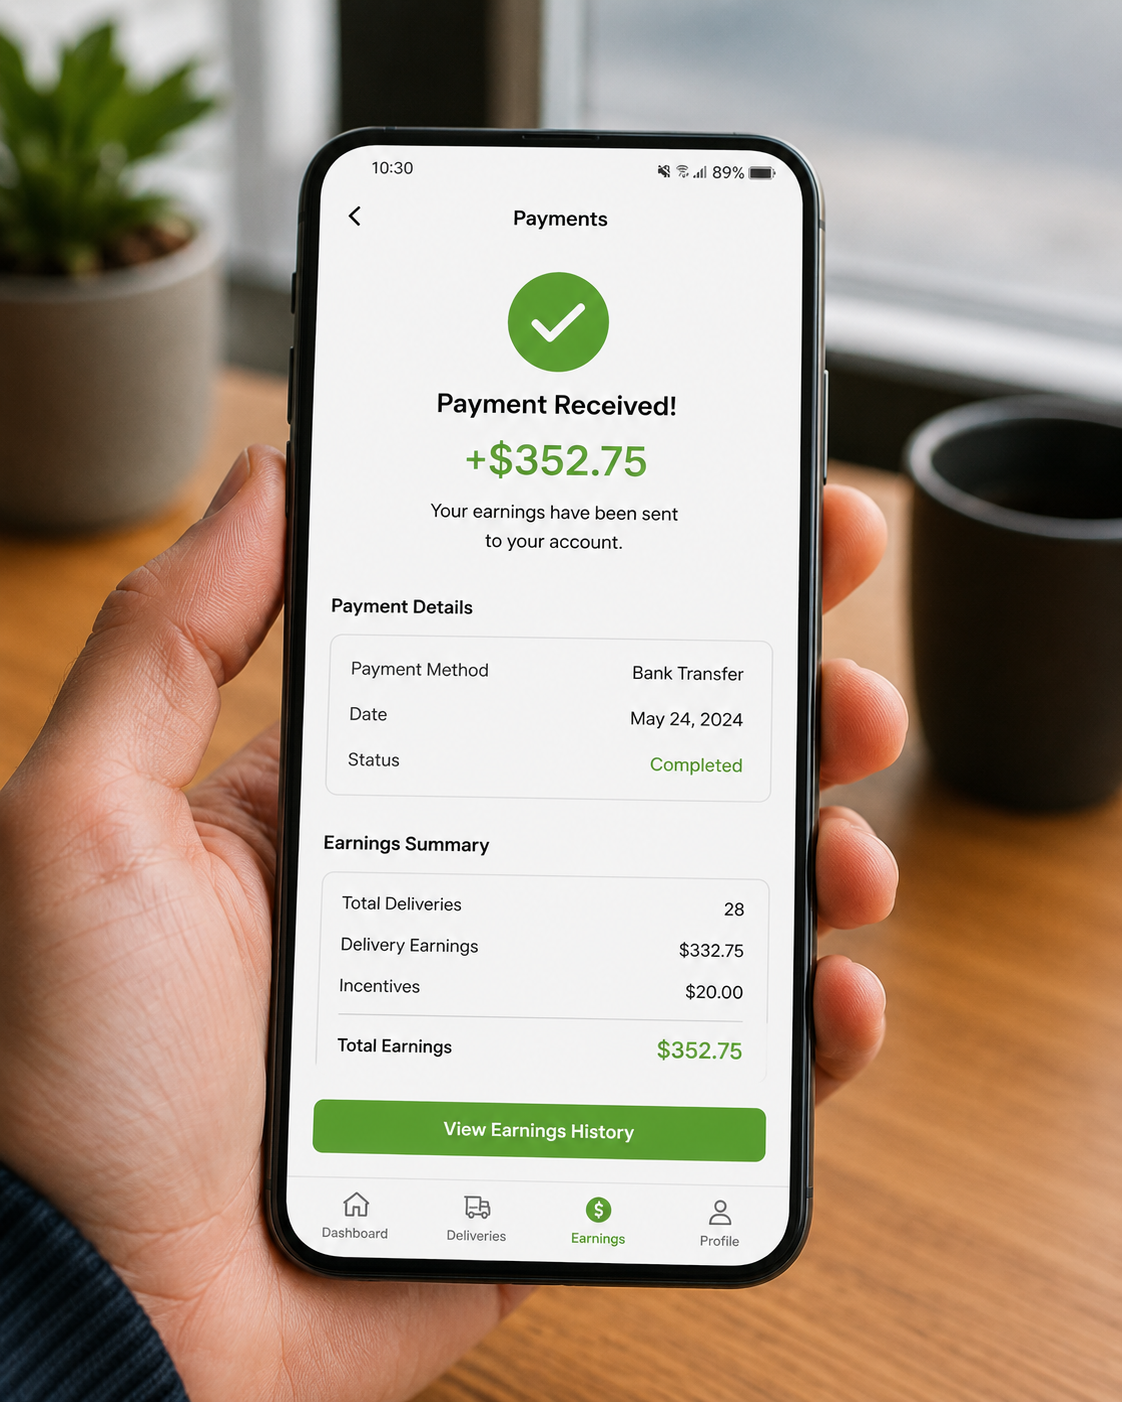
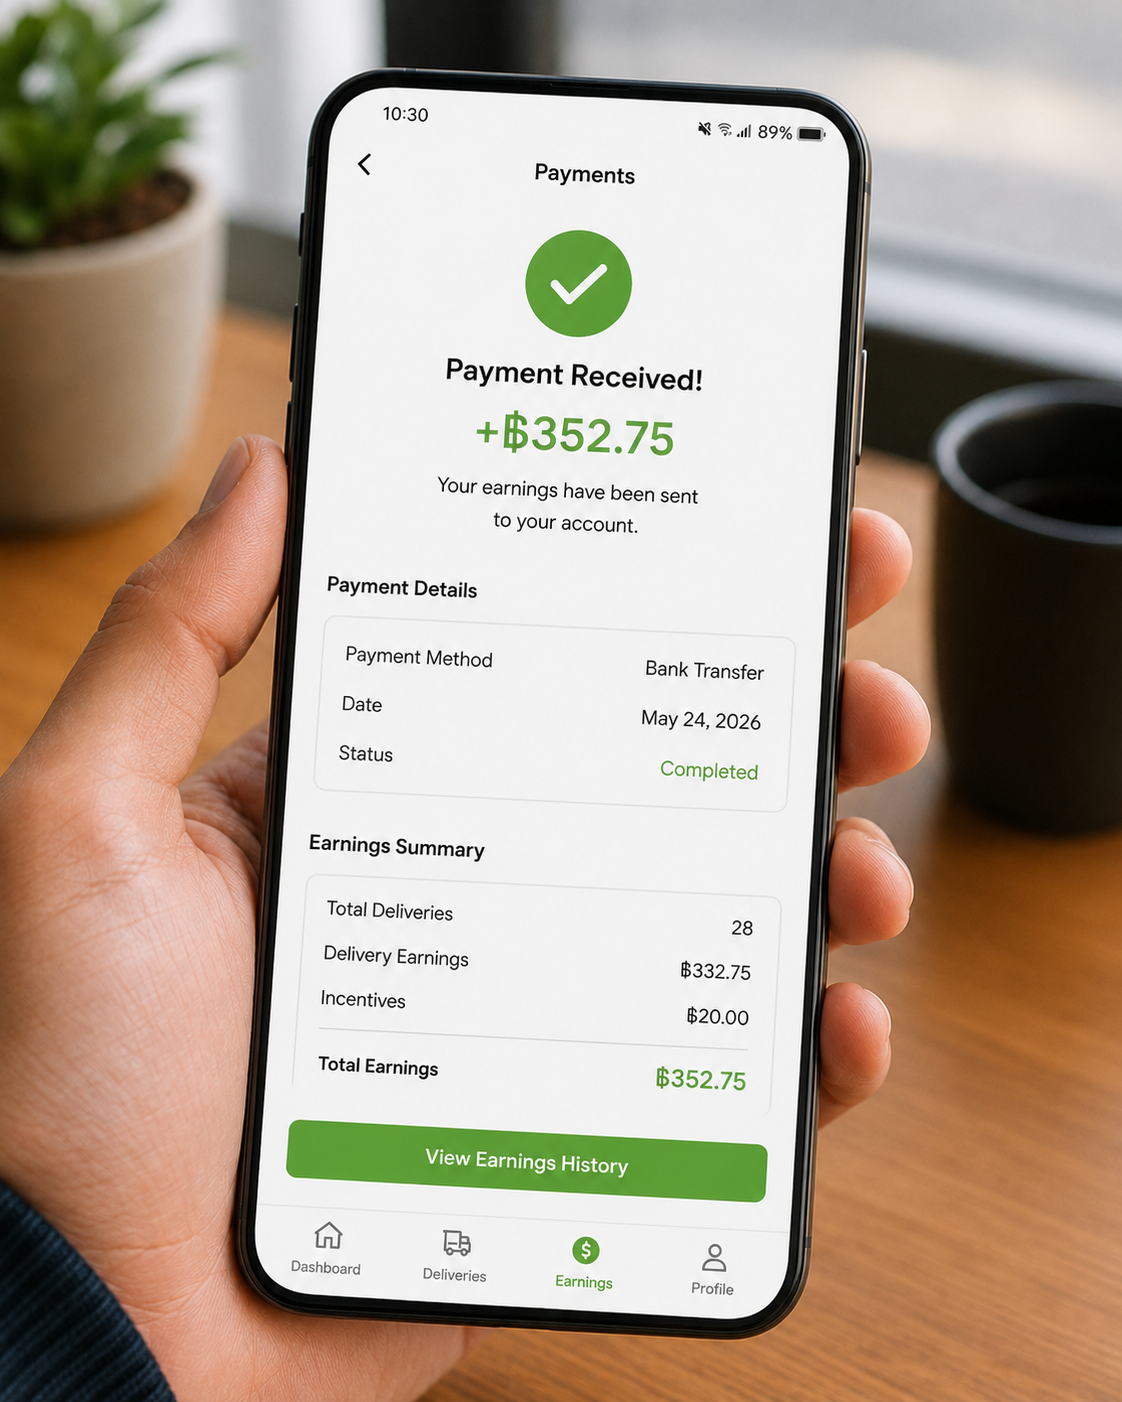
Update driver payout card image

diff --git a/design.md b/design.md
@@ -646,6 +646,11 @@
 - The FoodOnline Driver Program image panel now uses the supplied branded van image instead of the missing placeholder route image.
 - This pass changes image assets and wiring only; driver-page copy remains unchanged.
 
+### Driver Payout Card Image Update (2026-06-03)
+
+- The `Get Paid for Every Delivery` card now uses the supplied payment-received phone screenshot as `public/images/drivers/driver-payout-phone.png`.
+- This pass changes only that card image asset plus documentation notes; no CSS, text, layout, component code, or other images were changed.
+
 ## Guardrails
 
 - Keep this file as single design source of truth for both public site and backend/admin mockup.

diff --git a/AGENT.md b/AGENT.md
@@ -831,3 +831,12 @@
 - Added a dedicated cropped person image for the first earning card so the driver's face stays visible inside the existing aligned image box.
 - Replaced the missing/placeholder Driver Program image source with the supplied branded van image.
 - No driver page copy was changed in this pass.
+
+## Driver Payout Card Image Update (2026-06-03)
+
+- Files changed:
+  - `public/images/drivers/driver-payout-phone.png`
+  - `AGENT.md`
+  - `design.md`
+- Replaced only the `Get Paid for Every Delivery` card image with the supplied payment-received phone screenshot.
+- No CSS, copy, component code, or other image assets were changed.
